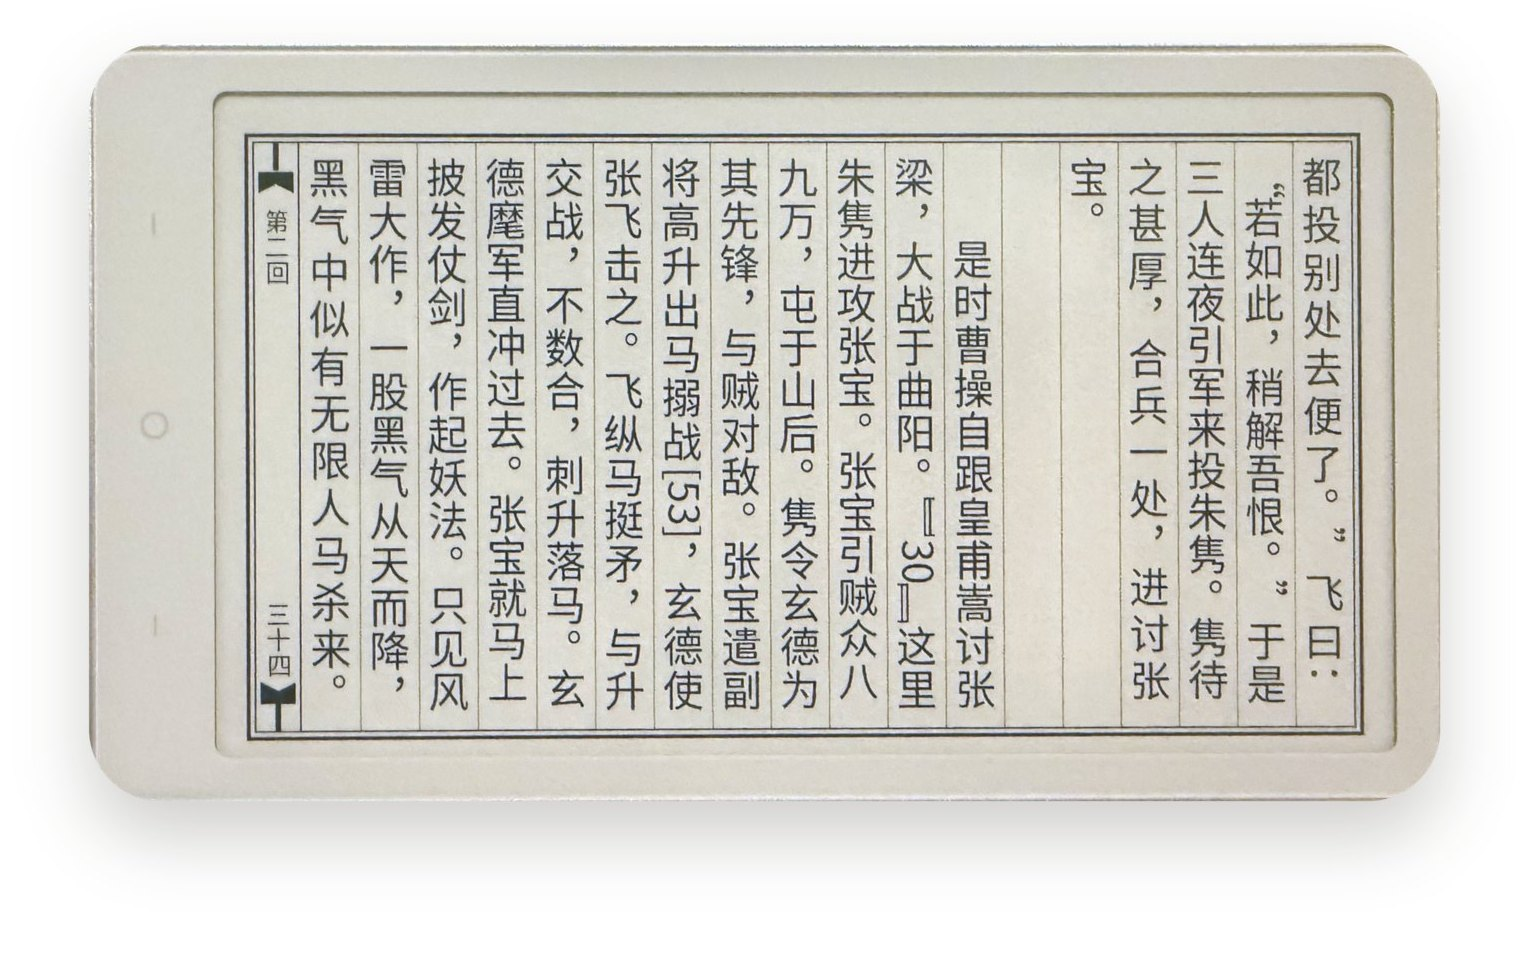
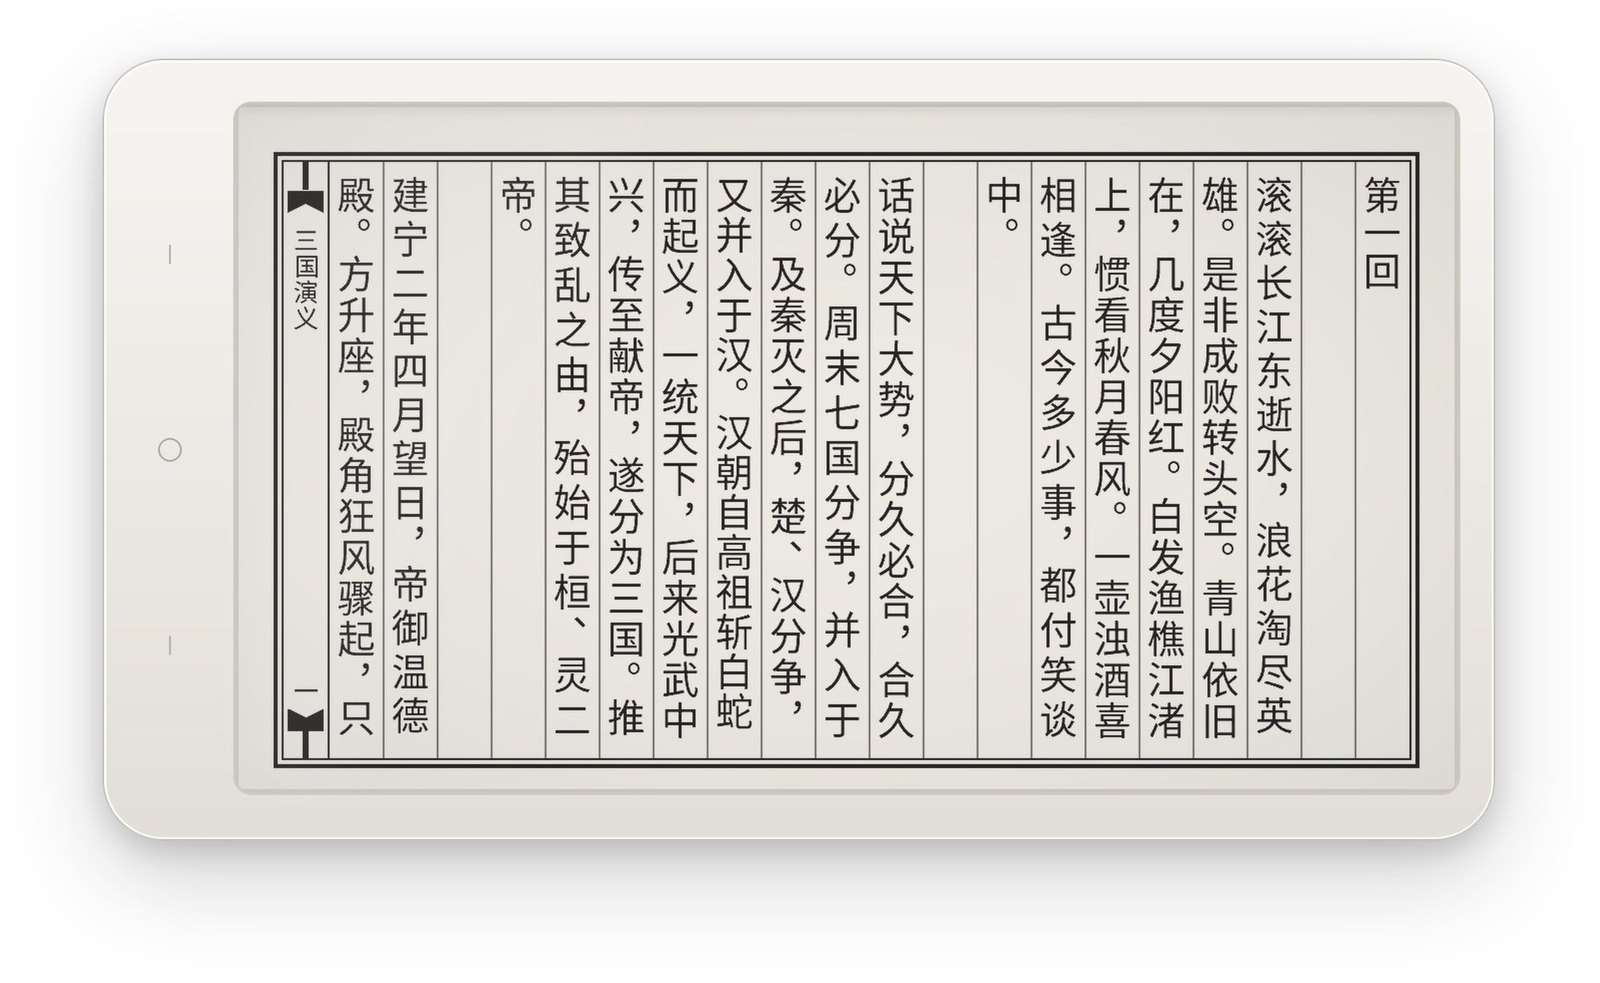
Site: clean product renders of the Read Pico instead of the raw photos
Drawn in code from the real device's measured proportions (body, screen opening,
button and marks on the short side) with a sharp simulator page on the panel, a
soft aluminium-white shell and studio shadows, so the device stays true to shape
without photo noise. Renderer kept outside the repo in xhs/web-src/render_device.py.

diff --git a/tools/rickyos-flasher/rickyos.html b/tools/rickyos-flasher/rickyos.html
@@ -22,12 +22,12 @@
 <h1>阅读，回到主角。</h1>
 <p class="sub">为墨水屏打造的阅读系统。</p>
 <div class="cta"><a class="pill" href="./install.html">安装 RickyOS</a><a href="./install.html?demo=1">先看看安装流程</a></div>
-<figure><img src="./src/assets/home/pico-landscape.jpg" width="1526" height="955" alt="横放的小纸 Read Pico，屏幕上是 RickyOS 的古籍竖排阅读页面"></figure>
+<figure><img src="./src/assets/home/pico-landscape.jpg" width="1600" height="983" alt="横放的小纸 Read Pico，屏幕上是 RickyOS 的古籍竖排阅读页面"></figure>
 </section>
 
 <section class="p-section">
 <div class="wrap p-split">
-<img src="./src/assets/home/pico-portrait.jpg" width="735" height="1170" alt="小纸 Read Pico 实拍，屏幕上是 RickyOS 的阅读页面" loading="lazy">
+<img src="./src/assets/home/pico-portrait.jpg" width="840" height="1354" alt="竖放的小纸 Read Pico，屏幕上是 RickyOS 的小狗伴读阅读页面" loading="lazy">
 <div>
 <h2>现已支持<br>小纸 Read Pico。</h2>
 <p>原厂系统也能直接安装。已经装好的设备，在设置里就能在线更新。</p>

diff --git a/tools/rickyos-flasher/index.html b/tools/rickyos-flasher/index.html
@@ -21,7 +21,7 @@
 <h2>RickyOS</h2>
 <p class="sub">阅读，回到主角。</p>
 <div class="links"><a href="./rickyos.html">进一步了解</a><a href="./install.html">安装</a></div>
-<img src="./src/assets/home/pico-landscape.jpg" width="1526" height="955" alt="横放的小纸 Read Pico，屏幕上是 RickyOS 的古籍竖排阅读页面">
+<img src="./src/assets/home/pico-landscape.jpg" width="1600" height="983" alt="横放的小纸 Read Pico，屏幕上是 RickyOS 的古籍竖排阅读页面">
 </section>
 <div class="tile-pair">
 <section class="tile"><h2>开发者计划</h2><p class="sub">应用市场，施工中。</p><div class="links"><a href="./developers.html">进一步了解</a></div><img class="tile-art" src="./src/assets/home/dev-key.jpg" width="1536" height="1024" alt="一排白色的圆角方块，一块橙色方块正要落进空位" loading="lazy"></section>
